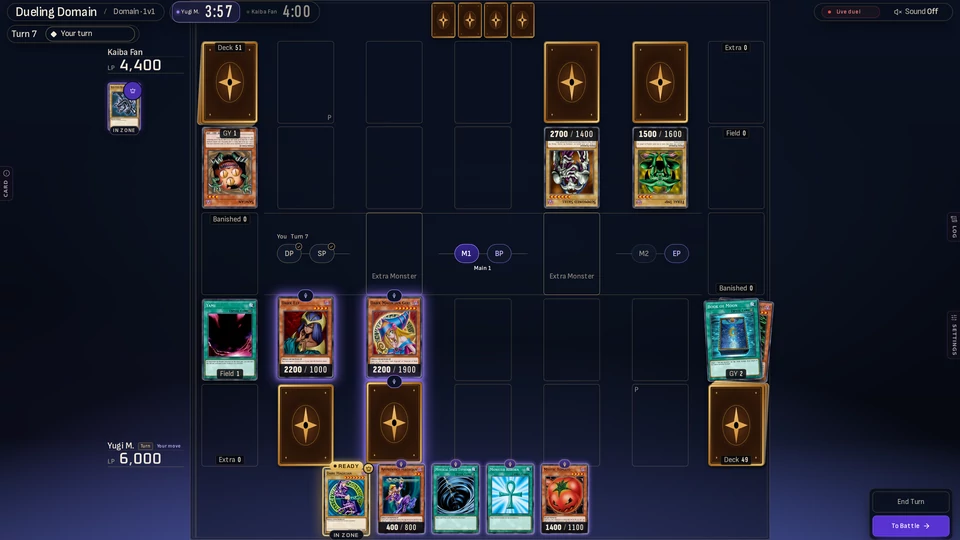
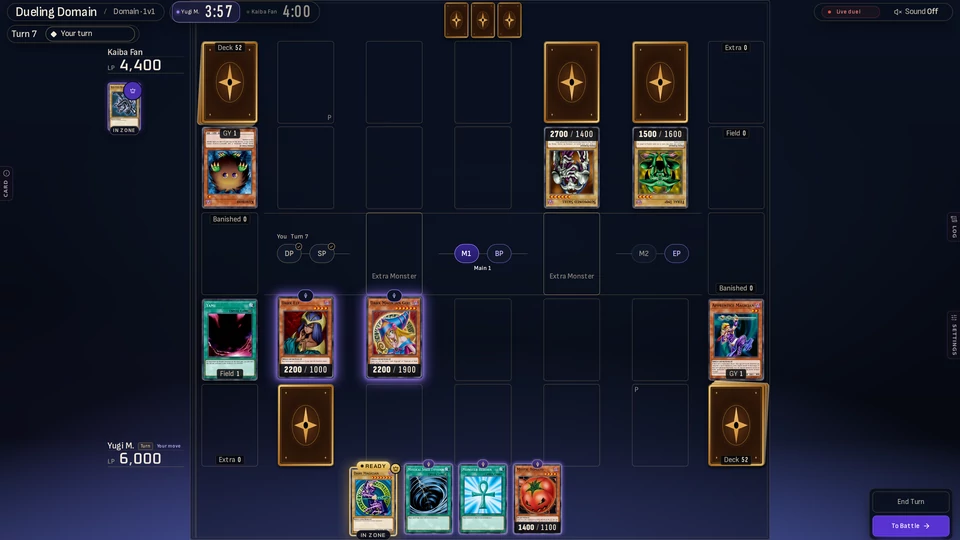
fix(site): board screenshots follow the draw math, tributes and one summon per turn

diff --git a/packages/duel-server/src/presets/marketing-boards.ts b/packages/duel-server/src/presets/marketing-boards.ts
@@ -7,6 +7,10 @@ import type { Preset } from "./types.js";
 // passes the turns up to MARKETING_TARGET_TURN with the normal prompts; the cards drawn on the way come from the
 // top of each `deck`. Each seat lists its state at the target turn, minus the draws still to come, so the counts in
 // the shot are: Deck = deckSize - draws, hand = listed hand + draws.
+// The counts must follow the draw math: cards out of the Deck = 5 (opening hand) + draws taken, and cards out = hand + field
+// (Set cards and Field Spell included) + Graveyard + banished. So for every seat: listed hand + field + Graveyard = 5 and
+// deckSize = Main size - 5. No board uses a draw or search effect. Every Level 5+ monster has its tribute in the Graveyard,
+// and each seat has at most one Normal Summon or Set per turn it had.
 // Every card is legal on the pinned TCG list (no forbidden card; at most one Limited card per deck).
 // The rules and counts behind every board are in packages/e2e/screenshots/README.md (board ledgers).
 
@@ -27,37 +31,39 @@ export const presets: Preset[] = [
     rules: [],
     board: {
       format: "ffa4",
-      deckSize: 40,
-      // Standard, Master Rule 5. Only the turn-1 duelist skips the first draw (R-FFA-FIRST-DRAW), so every seat draws twice by turn 9.
+      deckSize: 35,
+      // Standard, Master Rule 5. Only the turn-1 duelist skips the first draw (R-FFA-FIRST-DRAW), so every seat has drawn twice by turn 9
+      // (seat 0 on turns 5 and 9, seat 1 on 2 and 6, seat 2 on 3 and 7, seat 3 on 4 and 8): 7 cards out of each 40-card Deck, 33 left.
+      // Seat 0: turn 1 Normal Summon Celtic Guardian and Set Mirror Force; turn 5 Set Hane-Hane, activate Sogen, use Book of Moon.
       p0: {
         lp: 6500,
         hand: [],
         deck: ["Witch of the Black Forest", "Mystical Space Typhoon"], // drawn on turns 5 and 9
-        deckSize: 32,
-        monsters: ["Celtic Guardian", "Dark Magician", set("Hane-Hane")],
+        monsters: ["Celtic Guardian", set("Hane-Hane")],
         spells: [set("Mirror Force")],
         field: "Sogen",
-        grave: ["Offerings to the Doomed", "Monster Reborn", "Giant Rat"],
-      },
-      p1: {
-        lp: 4800,
-        hand: ["Kuriboh", "Sangan", "Mystical Elf"],
-        deckSize: 32,
-        monsters: ["Feral Imp", "Witch of the Black Forest"],
-        spells: [set("Call of the Haunted"), set("Trap Hole")],
         grave: ["Book of Moon"],
       },
+      // Seat 1: turn 2 Normal Summon Feral Imp, Set Trap Hole; turn 6 Normal Summon Witch of the Black Forest, Set Call of the Haunted, use Dian Keto.
+      p1: {
+        lp: 4800,
+        hand: [],
+        monsters: ["Feral Imp", "Witch of the Black Forest"],
+        spells: [set("Call of the Haunted"), set("Trap Hole")],
+        grave: ["Dian Keto the Cure Master"],
+      },
+      // Seat 2: turn 3 Normal Summon Giant Soldier of Stone (in defense since turn 7), Set Magic Cylinder; turn 7 Set Mystic Tomato and Solemn Judgment, use Book of Moon.
       p2: {
         lp: 8000,
-        hand: ["Hane-Hane"],
-        deckSize: 35,
+        hand: [],
         monsters: [def("Giant Soldier of Stone"), set("Mystic Tomato")],
         spells: [set("Magic Cylinder"), set("Solemn Judgment")],
+        grave: ["Book of Moon"],
       },
+      // Seat 3: turn 4 Normal Summon Axe Raider, Set Mirror Force; turn 8 Tribute Summon Summoned Skull (tribute Axe Raider), Set Trap Hole. Sangan is still in hand.
       p3: {
         lp: 5200,
         hand: ["Sangan"],
-        deckSize: 35,
         monsters: ["Summoned Skull"],
         spells: [set("Mirror Force"), set("Trap Hole")],
         grave: ["Axe Raider"],
@@ -79,44 +85,45 @@ export const presets: Preset[] = [
     rules: [],
     board: {
       format: "tag",
-      deckSize: 40,
+      deckSize: 35,
       // Seats 0 and 2 are team 1 (1A, 1B) and seats 1 and 3 are team 2 (2A, 2B). Each team shares one LP total (R-TAG-LP),
       // so both partners get the same value. Each team has at most one Field Spell (R-TAG-FIELD).
+      // Turn order 1A, 2A, 1B, 2B (R-TAG-ORDER). 1A draws on turns 5 and 9, 2A on 2 and 6, 1B on 3 and 7, 2B on 4 and 8: 7 cards out, 33 left.
+      // 1A: turn 1 Normal Summon Battle Ox, Set Dust Tornado; turn 5 Set Man-Eater Bug, activate Sogen, use Book of Moon.
       p0: {
         lp: 12300,
-        hand: ["Gaia The Fierce Knight"],
+        hand: [],
         deck: ["Monster Reborn", "Kuriboh"], // drawn on turns 5 and 9
-        deckSize: 33,
         monsters: ["Battle Ox", set("Man-Eater Bug")],
         spells: [set("Dust Tornado")],
         field: "Sogen",
-        grave: ["Book of Moon", "Mystical Space Typhoon"],
+        grave: ["Book of Moon"],
       },
+      // 2A: turn 2 Normal Summon Feral Imp, Set Trap Hole; turn 6 Tribute Summon Curse of Dragon (tribute Feral Imp), Set Magic Cylinder. Mirror Force was used.
       p1: {
         lp: 9500,
         hand: [],
-        deckSize: 35,
         monsters: ["Curse of Dragon"],
         spells: [set("Trap Hole"), set("Magic Cylinder")],
         grave: ["Feral Imp", "Mirror Force"],
       },
+      // 1B: turn 3 Normal Summon Axe Raider, Set Mirror Force; turn 7 Tribute Summon Summoned Skull (tribute Axe Raider). Sangan and Mystic Tomato are in hand.
       p2: {
         lp: 12300,
         hand: ["Sangan", "Mystic Tomato"],
         deck: ["Hane-Hane", "Giant Rat"], // drawn on turns 3 and 7
-        deckSize: 35,
         monsters: ["Summoned Skull"],
         spells: [set("Mirror Force")],
         grave: ["Axe Raider"],
       },
+      // 2B: turn 4 Normal Summon Giant Soldier of Stone, Set Mirror Force; turn 8 Set Mystic Tomato, activate Yami, use Dian Keto.
       p3: {
         lp: 9500,
-        hand: ["Kuriboh", "Feral Imp"],
-        deckSize: 33,
+        hand: [],
         monsters: [def("Giant Soldier of Stone"), set("Mystic Tomato")],
         spells: [set("Mirror Force")],
         field: "Yami",
-        grave: ["Offerings to the Doomed"],
+        grave: ["Dian Keto the Cure Master"],
       },
     },
     bots: { 1: [], 2: [], 3: [] },
@@ -135,26 +142,27 @@ export const presets: Preset[] = [
     board: {
       mode: "domain",
       // Domain: 60 Main Deck cards, singleton, Deck Master apart from the decks. In 1v1 Domain the turn-1 duelist skips the first draw
-      // (R-FFA-FIRST-DRAW), so seat 0 draws on turns 3, 5 and 7 and seat 1 on turns 2, 4 and 6.
-      deckSize: 60,
+      // (R-FFA-FIRST-DRAW), so seat 0 draws on turns 3, 5 and 7 and seat 1 on turns 2, 4 and 6: 5 + 3 = 8 cards out, 52 left.
+      deckSize: 55,
+      // Seat 0: turn 1 Normal Summon Apprentice Magician, Set Mirror Force; turn 3 Tribute Summon Dark Magician Girl (tribute Apprentice Magician);
+      // turn 5 Normal Summon Dark Elf, activate Yami.
       p0: {
         lp: 6000,
-        hand: ["Apprentice Magician"],
+        hand: [],
         deck: ["Mystical Space Typhoon", "Monster Reborn", "Mystic Tomato"], // drawn on turns 3, 5 and 7
-        deckSize: 52,
         monsters: ["Dark Elf", "Dark Magician Girl"],
-        spells: [set("Mirror Force"), set("Dust Tornado")],
+        spells: [set("Mirror Force")],
         field: "Yami",
-        grave: ["Witch of the Black Forest", "Book of Moon"],
+        grave: ["Apprentice Magician"],
         deckMaster: "Dark Magician",
       },
+      // Seat 1: turn 2 Normal Summon Kuriboh; turn 4 Tribute Summon Summoned Skull (tribute Kuriboh), Set Trap Hole; turn 6 Normal Summon Feral Imp, Set Dust Tornado.
       p1: {
         lp: 4400,
-        hand: ["Kuriboh"],
-        deckSize: 54,
+        hand: [],
         monsters: ["Feral Imp", "Summoned Skull"],
         spells: [set("Trap Hole"), set("Dust Tornado")],
-        grave: ["Sangan"],
+        grave: ["Kuriboh"],
         deckMaster: "Red-Eyes Black Dragon",
       },
     },

diff --git a/site/public/4-player-yugioh.html b/site/public/4-player-yugioh.html
@@ -133,7 +133,7 @@
 <h1>4-player Yu-Gi-Oh! online</h1>
 <p class="answer">Dueling Domain lets you play 4-player Yu-Gi-Oh! online in your browser: four duelists at one table, each with their own Life Points, and the last duelist standing wins.</p>
 <p class="info-cta"><a class="btn" href="/#join">Join the waitlist</a></p>
-<figure class="info-fig"><img src="/assets/shot-4-player-table.webp" srcset="/assets/shot-4-player-table-960.webp 960w, /assets/shot-4-player-table.webp 1920w" sizes="(max-width: 860px) calc(100vw - 32px), 780px" alt="A four-player free-for-all duel in Dueling Domain, on turn 9 in the Main Phase. Yugi M. at the bottom has Life Points 6,500, two monsters, a Set monster, a Set card and a Field Spell. Kaiba Fan (4,800), Mai V. (8,000) and Rex R. (5,200) each hold their own field and Graveyard." width="1920" height="1080" loading="lazy" decoding="async"><figcaption>A 4-player table in the closed alpha. The players and boards are sample data.</figcaption></figure><figure class="info-fig"><a href="https://www.youtube.com/watch?v=9CahDbFr0jA" rel="noopener"><img src="/assets/arena-poster.webp" alt="A card table for several players, drawn with original card backs." width="1440" height="900" loading="lazy" decoding="async"></a><figcaption>Launch trailer poster. The trailer is 73 seconds long and opens on YouTube.</figcaption></figure>
+<figure class="info-fig"><img src="/assets/shot-4-player-table.webp" srcset="/assets/shot-4-player-table-960.webp 960w, /assets/shot-4-player-table.webp 1920w" sizes="(max-width: 860px) calc(100vw - 32px), 780px" alt="A four-player free-for-all duel in Dueling Domain, on turn 9 in the Main Phase. Yugi M. at the bottom has Life Points 6,500, one monster, a Set monster, a Set card and a Field Spell. Kaiba Fan (4,800), Mai V. (8,000) and Rex R. (5,200) each hold their own field and Graveyard." width="1920" height="1080" loading="lazy" decoding="async"><figcaption>A 4-player table in the closed alpha. The players and boards are sample data.</figcaption></figure><figure class="info-fig"><a href="https://www.youtube.com/watch?v=9CahDbFr0jA" rel="noopener"><img src="/assets/arena-poster.webp" alt="A card table for several players, drawn with original card backs." width="1440" height="900" loading="lazy" decoding="async"></a><figcaption>Launch trailer poster. The trailer is 73 seconds long and opens on YouTube.</figcaption></figure>
 
 <h2>How a 4-player table works</h2>
 <p>A free-for-all table seats four duelists. Everyone starts with 8,000 Life Points by default, and nobody shares them. You win when every other duelist is out. Three-player tables work the same way with one seat fewer.</p>

diff --git a/site/public/domain-format.html b/site/public/domain-format.html
@@ -116,7 +116,7 @@
 <h1>Domain Format online</h1>
 <p class="answer">Domain Format is a community Yu-Gi-Oh! format where each duelist keeps a Deck Master in a zone of its own, and Dueling Domain runs those rules for you in the browser.</p>
 <p class="info-cta"><a class="btn" href="/#join">Join the waitlist</a></p>
-<figure class="info-fig"><img src="/assets/shot-domain-format.webp" srcset="/assets/shot-domain-format-960.webp 960w, /assets/shot-domain-format.webp 1920w" sizes="(max-width: 860px) calc(100vw - 32px), 780px" alt="A Domain Format duel in Dueling Domain, on turn 7 in the Main Phase. The Deck Master Dark Magician waits in its zone, ready to use, beside a field with two monsters, two Set cards, a Field Spell and a Graveyard. The other duelist has a Deck Master too. Life Points are 6,000 and 4,400." width="1920" height="1080" loading="lazy" decoding="async"><figcaption>A Domain Format duel in the closed alpha. The players and boards are sample data.</figcaption></figure>
+<figure class="info-fig"><img src="/assets/shot-domain-format.webp" srcset="/assets/shot-domain-format-960.webp 960w, /assets/shot-domain-format.webp 1920w" sizes="(max-width: 860px) calc(100vw - 32px), 780px" alt="A Domain Format duel in Dueling Domain, on turn 7 in the Main Phase. The Deck Master Dark Magician waits in its zone, ready to use, beside a field with two monsters, one Set card, a Field Spell and a Graveyard. The other duelist has a Deck Master too. Life Points are 6,000 and 4,400." width="1920" height="1080" loading="lazy" decoding="async"><figcaption>A Domain Format duel in the closed alpha. The players and boards are sample data.</figcaption></figure>
 
 <h2>What changes in Domain Format</h2>
 <p>Domain Format adds one idea to the normal game: the Deck Master. It is a monster that starts outside your decks, in its own zone. You can summon it, and you can return it to its zone later.</p>

diff --git a/site/src/pages.py b/site/src/pages.py
@@ -20,7 +20,7 @@ PAGES = [
         'answer': 'Dueling Domain lets you play 4-player @GAME@ online in your browser: four duelists at one table, each with their own Life Points, and the last duelist standing wins.',
         'video': True,
         'shot': ('/assets/shot-4-player-table.webp', 1920, 1080,
-                 'A four-player free-for-all duel in Dueling Domain, on turn 9 in the Main Phase. Yugi M. at the bottom has Life Points 6,500, two monsters, a Set monster, a Set card and a Field Spell. Kaiba Fan (4,800), Mai V. (8,000) and Rex R. (5,200) each hold their own field and Graveyard.',
+                 'A four-player free-for-all duel in Dueling Domain, on turn 9 in the Main Phase. Yugi M. at the bottom has Life Points 6,500, one monster, a Set monster, a Set card and a Field Spell. Kaiba Fan (4,800), Mai V. (8,000) and Rex R. (5,200) each hold their own field and Graveyard.',
                  'A 4-player table in the closed alpha. The players and boards are sample data.'),
         'figure': ('A card table for several players, drawn with original card backs.',
                    'Launch trailer poster. The trailer is 73 seconds long and opens on YouTube.'),
@@ -149,7 +149,7 @@ PAGES = [
         'h1': 'Domain Format online',
         'answer': 'Domain Format is a community @GAME@ format where each duelist keeps a Deck Master in a zone of its own, and Dueling Domain runs those rules for you in the browser.',
         'shot': ('/assets/shot-domain-format.webp', 1920, 1080,
-                 'A Domain Format duel in Dueling Domain, on turn 7 in the Main Phase. The Deck Master Dark Magician waits in its zone, ready to use, beside a field with two monsters, two Set cards, a Field Spell and a Graveyard. The other duelist has a Deck Master too. Life Points are 6,000 and 4,400.',
+                 'A Domain Format duel in Dueling Domain, on turn 7 in the Main Phase. The Deck Master Dark Magician waits in its zone, ready to use, beside a field with two monsters, one Set card, a Field Spell and a Graveyard. The other duelist has a Deck Master too. Life Points are 6,000 and 4,400.',
                  'A Domain Format duel in the closed alpha. The players and boards are sample data.'),
         'figure': ('A card table for several players, drawn with original card backs.',
                    'Poster art for the launch trailer.'),

diff --git a/packages/e2e/screenshots/README.md b/packages/e2e/screenshots/README.md
@@ -33,11 +33,29 @@ The boards are set up with the board DSL (`packages/duel-server/src/presets/boar
 (`playToTurn` in `boards.spec.ts` passes the other seats' turns through `POST /api/duels/<slug>/actions`), so the turn counter, the draws and the phase are real engine state.
 The Deck counts follow Deck = Main size - hand - field - Graveyard - banished (the Deck Master is outside the Main Deck).
 
-| Shot | Turn, phase, active seat | LP | Hands / Decks / GY / banished |
-| --- | --- | --- | --- |
-| 4-player (`marketing-ffa4`) | Turn 9, Main Phase 1, seat 0 (Yugi M.) | 6,500 / 4,800 / 8,000 / 5,200 | 2 / 30 / 3 / 0, 5 / 30 / 1 / 0, 3 / 33 / 0 / 0, 3 / 33 / 1 / 0 |
-| 2v2 Tag (`marketing-tag`) | Turn 9, Main Phase 1, seat 0 (1A) | team 1 12,300, team 2 9,500 (of 16,000) | 1A 3 / 31 / 2 / 0, 2A 2 / 33 / 2 / 0, 1B 4 / 33 / 1 / 0, 2B 4 / 31 / 1 / 0 |
-| Domain (`marketing-domain`) | Turn 7, Main Phase 1, seat 0 | 6,000 / 4,400 | 4 / 49 / 2 / 0, 4 / 51 / 1 / 0 |
+Draw math for every seat: cards out of the Deck = 5 (opening hand, `startingHand` 5 in `packages/shared/src/duels/settings.ts:315`) + draws taken;
+cards out = hand + field (Set cards and Field Spell included) + Graveyard + banished; Deck = start size - cards out. No board uses a draw or search effect.
+Turn-1 duelist skips the first draw (`R-FFA-FIRST-DRAW`, ADR 0002 line 11). Every Level 5 or 6 monster has its tribute in the Graveyard of its player,
+and each seat has at most one Normal Summon or Set per turn it had.
+
+| Shot | Turn, phase, active seat | LP |
+| --- | --- | --- |
+| 4-player (`marketing-ffa4`) | Turn 9, Main Phase 1, seat 0 (Yugi M.) | 6,500 / 4,800 / 8,000 / 5,200 |
+| 2v2 Tag (`marketing-tag`) | Turn 9, Main Phase 1, seat 0 (1A) | team 1 12,300, team 2 9,500 (of 16,000) |
+| Domain (`marketing-domain`) | Turn 7, Main Phase 1, seat 0 | 6,000 / 4,400 |
+
+Checks per seat ("drawn" counts draws up to and including the current turn; start Deck 40, Domain 60):
+
+- 4-player. Yugi M. (turns 1, 5, 9): drawn 2, out 7 = hand 2 + field 4 + GY 1 + banished 0, Deck 40 - 7 = 33. Kaiba Fan (2, 6): drawn 2, out 7 = hand 2 + field 4 + GY 1, Deck 33. Mai V. (3, 7): drawn 2, out 7 = hand 2 + field 4 + GY 1, Deck 33. Rex R. (4, 8): drawn 2, out 7 = hand 3 + field 3 + GY 1, Deck 33.
+- Tag. 1A Yugi (1, 5, 9): drawn 2, out 7 = hand 2 + field 4 + GY 1, Deck 33. 2A Kaiba Fan (2, 6): drawn 2, out 7 = hand 2 + field 3 + GY 2, Deck 33. 1B Mai V. (3, 7): drawn 2, out 7 = hand 4 + field 2 + GY 1, Deck 33. 2B Rex R. (4, 8): drawn 2, out 7 = hand 2 + field 4 + GY 1, Deck 33.
+- Domain. Yugi M. (1, 3, 5, 7): drawn 3, out 8 = hand 3 + field 4 + GY 1, Deck 60 - 8 = 52. Kaiba Fan (2, 4, 6): drawn 3, out 8 = hand 3 + field 4 + GY 1, Deck 52. The Deck Masters are outside the 60 cards.
+
+Summon history (one Normal Summon or Set per turn; the tribute is in the Graveyard):
+
+- 4-player. Yugi M.: T1 Celtic Guardian, Set Mirror Force; T5 Set Hane-Hane, Sogen, Book of Moon. Kaiba Fan: T2 Feral Imp, Set Trap Hole; T6 Witch of the Black Forest, Set Call of the Haunted, Dian Keto. Mai V.: T3 Giant Soldier of Stone, Set Magic Cylinder; T7 Set Mystic Tomato and Solemn Judgment, Book of Moon. Rex R.: T4 Axe Raider, Set Mirror Force; T8 Tribute Summon Summoned Skull (tribute Axe Raider), Set Trap Hole.
+- Tag. 1A: T1 Battle Ox, Set Dust Tornado; T5 Set Man-Eater Bug, Sogen, Book of Moon. 2A: T2 Feral Imp, Set Trap Hole; T6 Tribute Summon Curse of Dragon (tribute Feral Imp), Set Magic Cylinder; Mirror Force used. 1B: T3 Axe Raider, Set Mirror Force; T7 Tribute Summon Summoned Skull (tribute Axe Raider). 2B: T4 Giant Soldier of Stone, Set Mirror Force; T8 Set Mystic Tomato, Yami, Dian Keto.
+- Domain. Yugi M.: T1 Apprentice Magician, Set Mirror Force; T3 Tribute Summon Dark Magician Girl (tribute Apprentice Magician); T5 Dark Elf, Yami. Kaiba Fan: T2 Kuriboh; T4 Tribute Summon Summoned Skull (tribute Kuriboh), Set Trap Hole; T6 Feral Imp, Set Dust Tornado.
+- Stats on screen come from the card scripts: Sogen gives +200 to Warrior and Beast-Warrior monsters (Celtic Guardian 1,600; Battle Ox 1,900; the Spellcaster Witch of the Black Forest keeps 1,100), Yami gives +200 to Fiend and Spellcaster monsters.
 
 Rules these boards follow: turn order and the first draw (`R-FFA-FIRST-DRAW`, `R-FFA-ORDER`, `R-TAG-ORDER` in `docs/adr/0002-multiplayer-duel-rules.md`); the first Battle Phase of a multi-seat duel is turn n (`R-FFA-NO-ATTACK`, so turn 9 is past it);
 shared team LP (`R-TAG-LP`, `engine.ts`); facing seats and shared Extra Monster Zones (`R-TAG-FACING`, `R-FFA-ACROSS-EMZ`); one Field Spell per team (`R-TAG-FIELD`); Domain Deck Master and 60-card Main Deck (ADR 0002, "Deck Master core rules").
